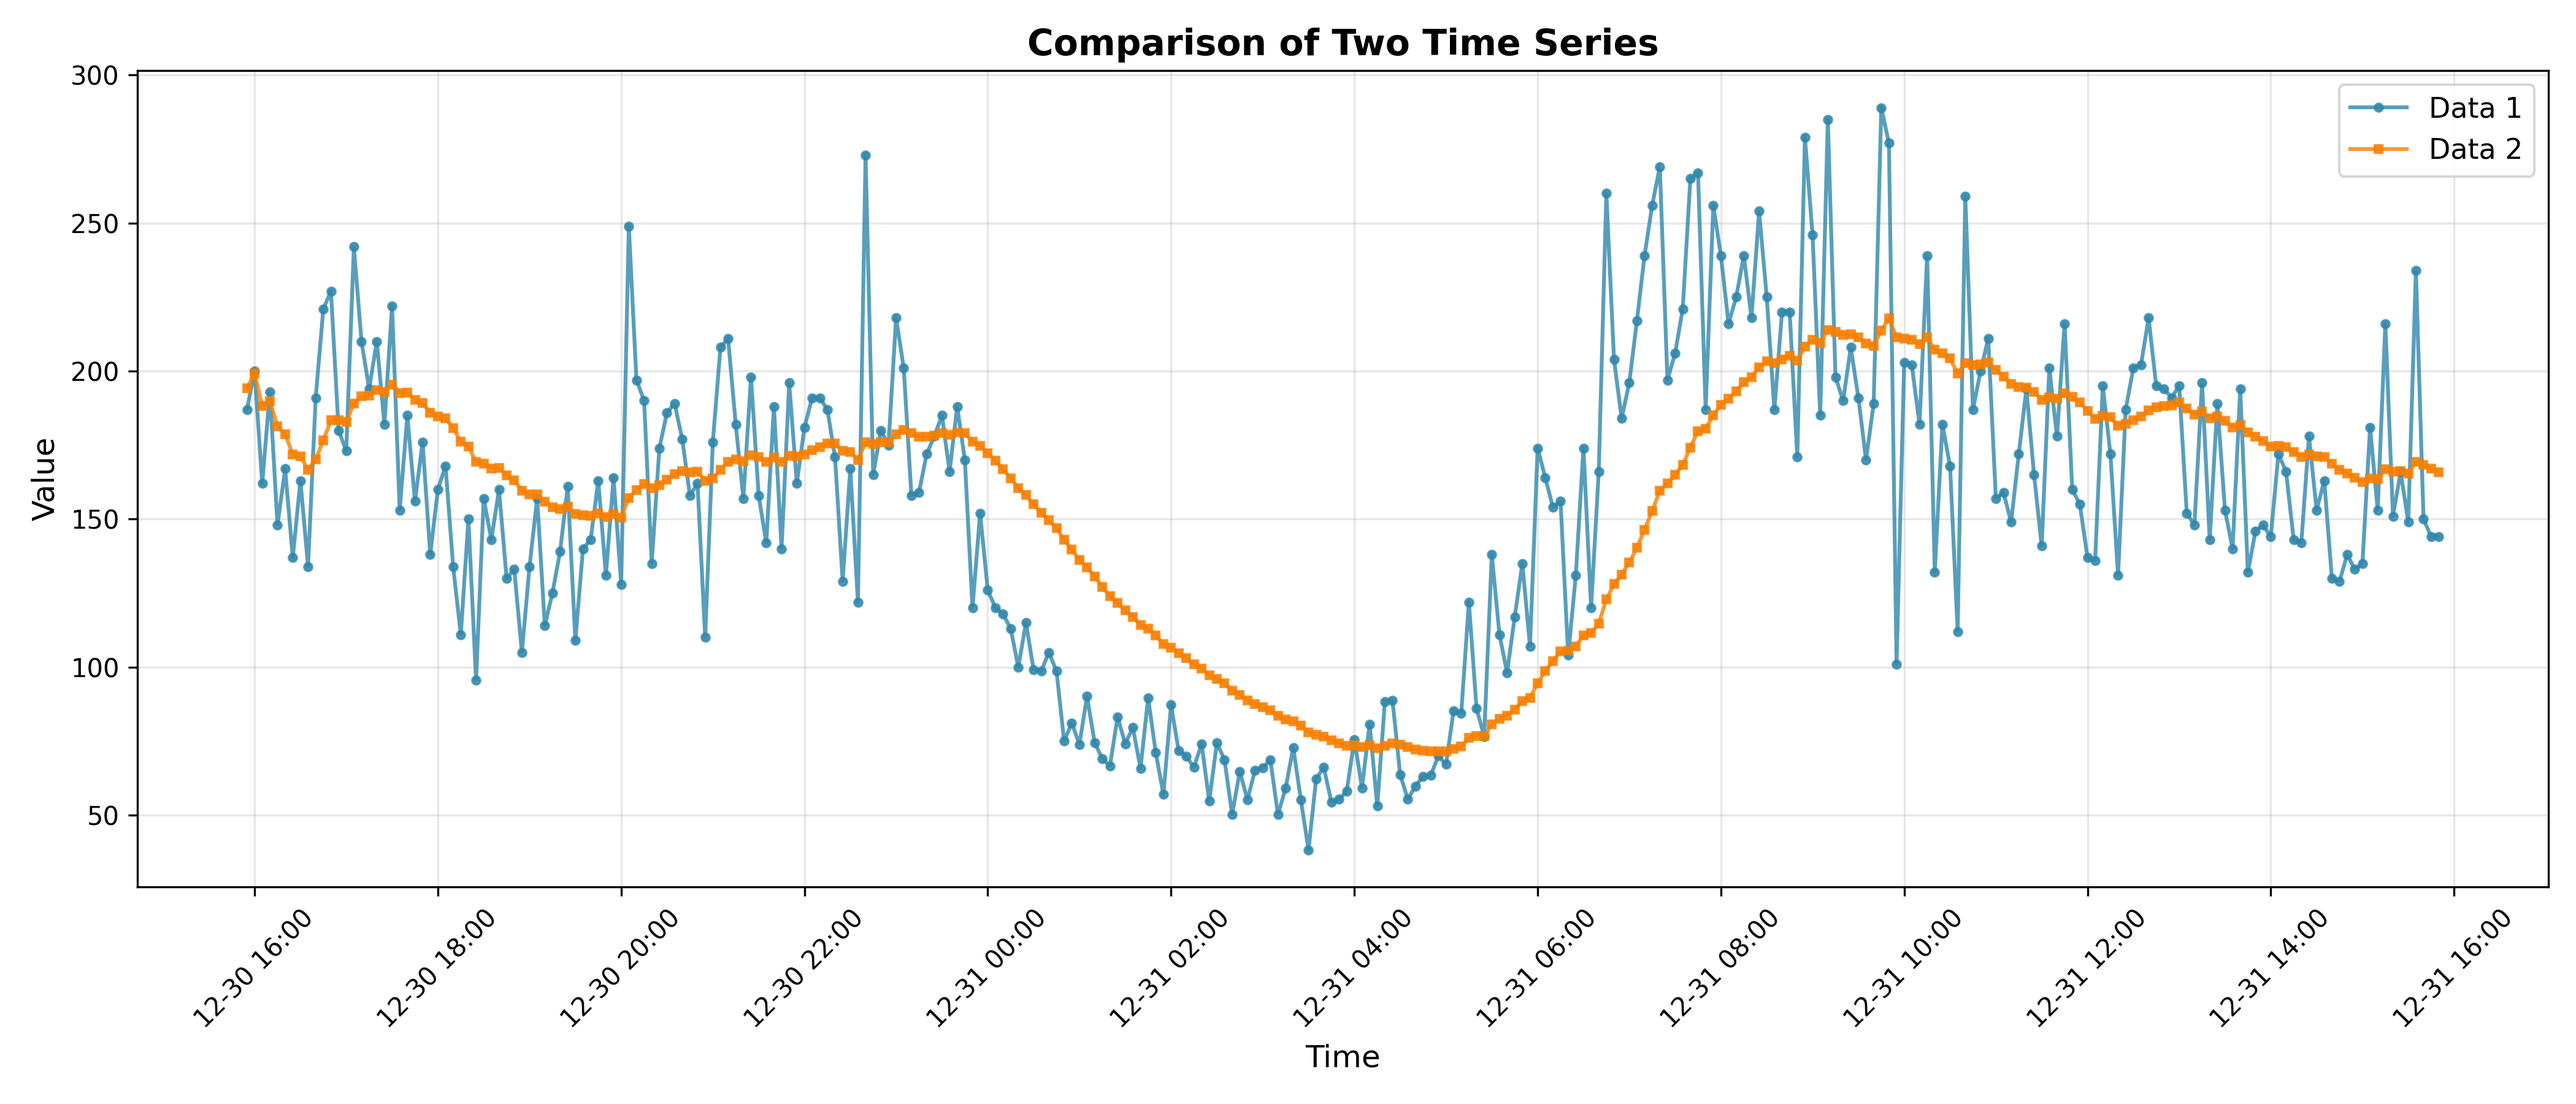
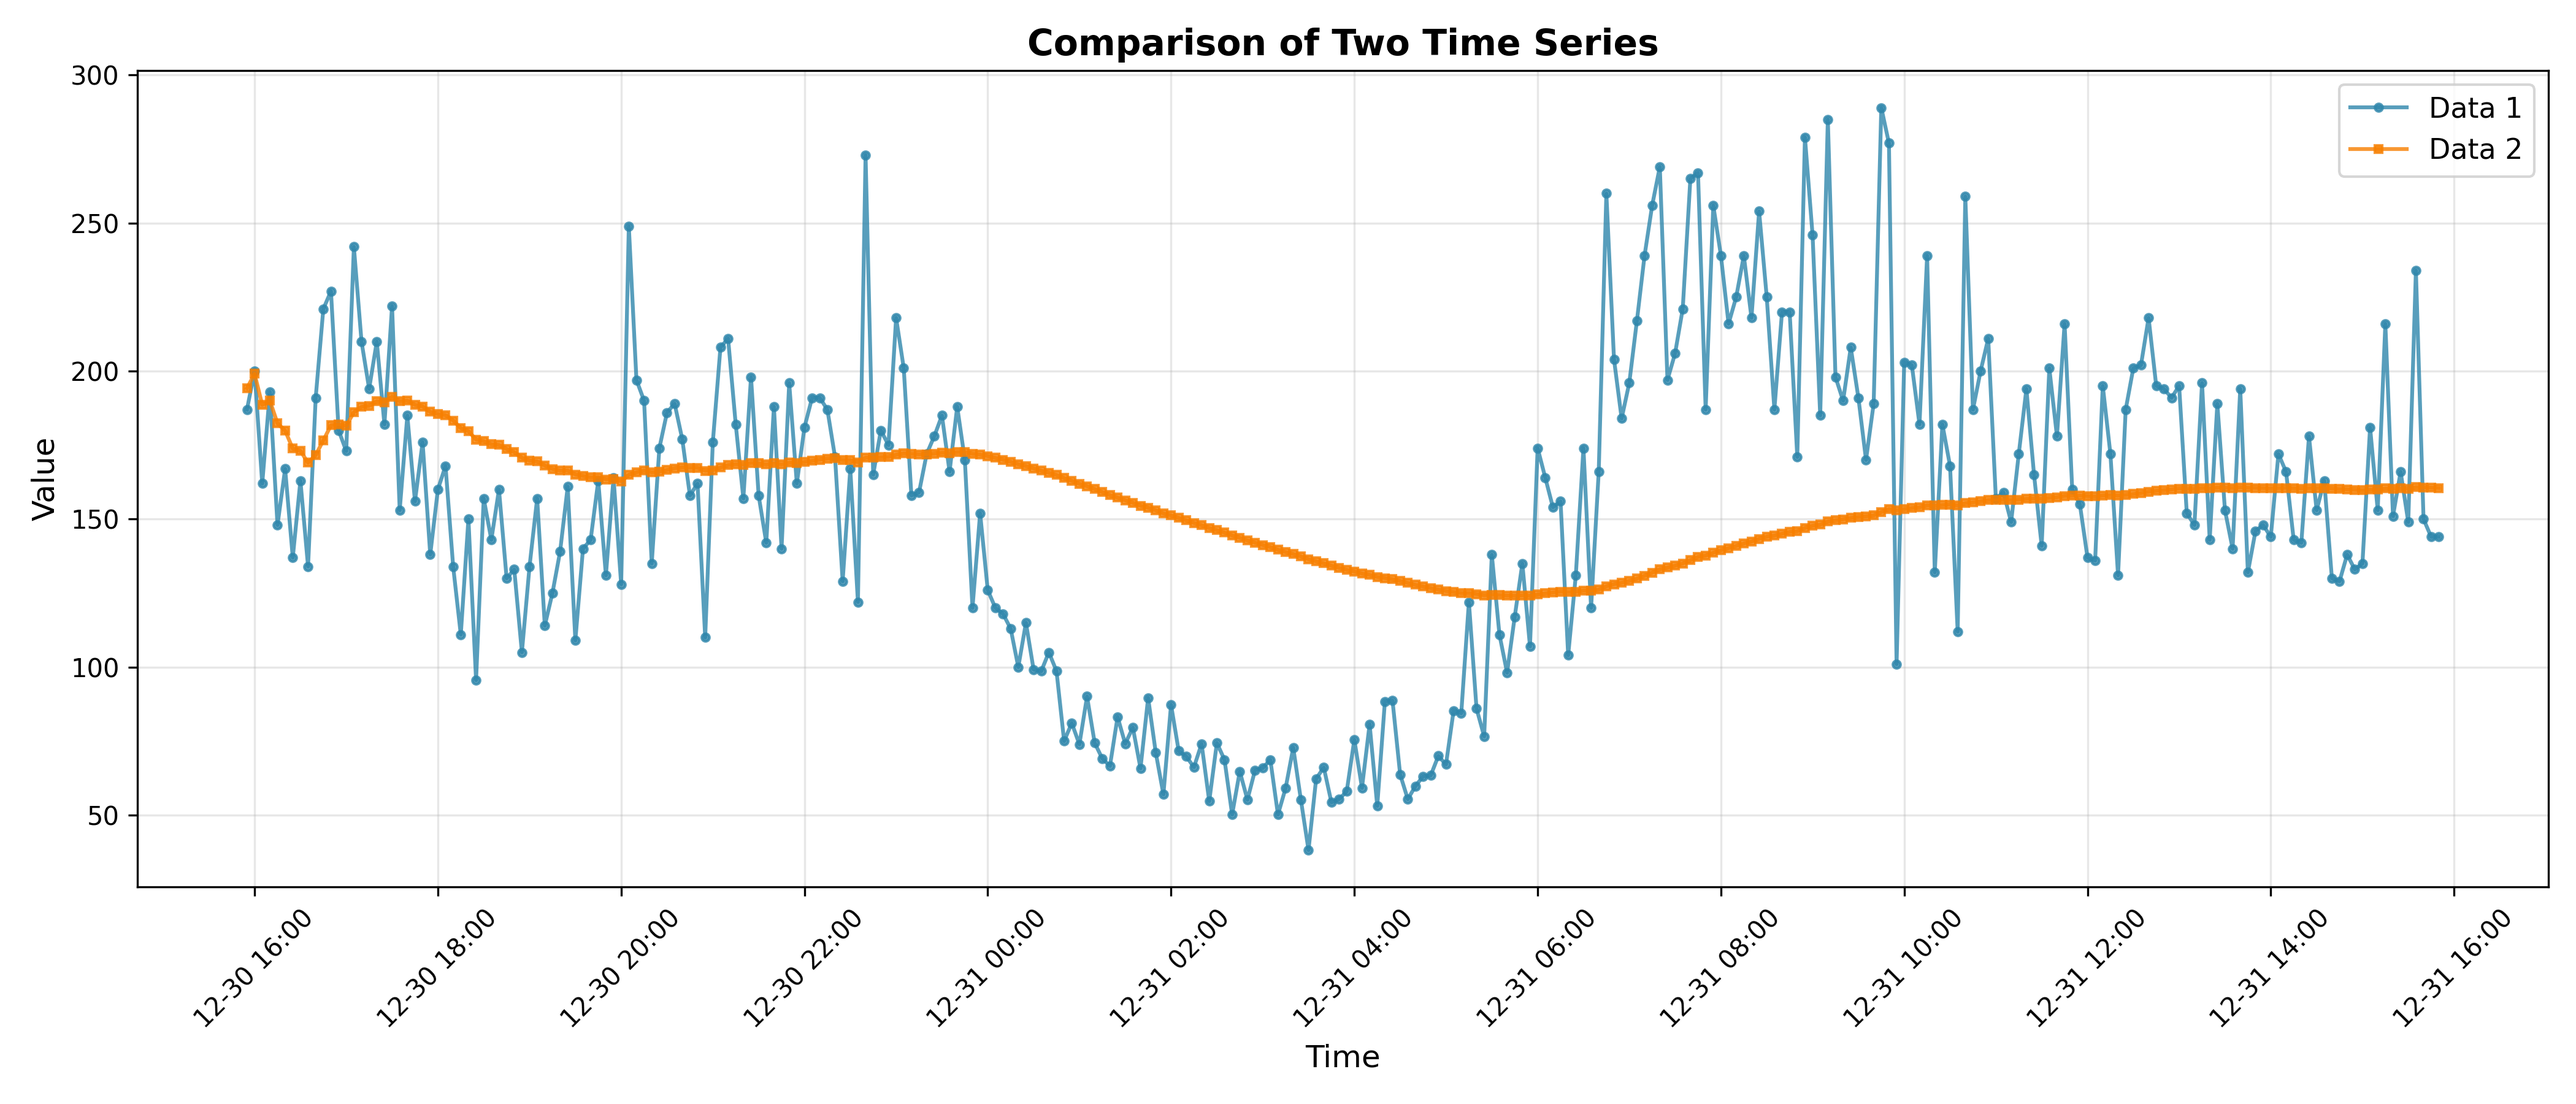
fix

diff --git a/chart.py b/chart.py
@@ -2,39 +2,44 @@ import pandas as pd
 import matplotlib.pyplot as plt
 import matplotlib.dates as mdates
 
-# 配置文件列表
-files = [
-    ('cpumock2.csv', 'Server A', '#2E86AB', 'o'),
-    ('cpumock2_mv.csv', 'Server B', '#F77F00', 's'),
-    # ('data3.csv', 'Server C', '#06A77D', '^'),  # 可选第三条
-]
+# 读取两个 CSV 文件
+df1 = pd.read_csv('cpumock2.csv', names=['timestamp', 'value'], parse_dates=['timestamp'])
+df2 = pd.read_csv('cpumock2_mw_2.csv', names=['timestamp', 'value'], parse_dates=['timestamp'])
 
-plt.figure(figsize=(16, 7))
+# 排序
+df1.sort_values('timestamp', inplace=True)
+df2.sort_values('timestamp', inplace=True)
 
-# 循环绘制
-for csv_file, label, color, marker in files:
-    df = pd.read_csv(csv_file, names=['timestamp', 'value'],
-                     parse_dates=['timestamp'])
-    df.sort_values('timestamp', inplace=True)
+# 绘图
+plt.figure(figsize=(14, 6))
 
-    plt.plot(df['timestamp'], df['value'],
-             linewidth=2, color=color, marker=marker,
-             markersize=3, label=label, alpha=0.8, markevery=10)
+# 第一条曲线 - 蓝色
+plt.plot(df1['timestamp'], df1['value'],
+         linewidth=1.5, color='#2E86AB',
+         marker='o', markersize=3, label='Data 1', alpha=0.8)
 
-    plt.fill_between(df['timestamp'], df['value'],
-                     alpha=0.15, color=color)
+# 第二条曲线 - 橙色
+plt.plot(df2['timestamp'], df2['value'],
+         linewidth=1.5, color='#F77F00',
+         marker='s', markersize=3, label='Data 2', alpha=0.8)
 
 # 格式化
 plt.gca().xaxis.set_major_formatter(mdates.DateFormatter('%m-%d %H:%M'))
 plt.gca().xaxis.set_major_locator(mdates.HourLocator(interval=2))
 
-plt.title('Multi-Server Comparison', fontsize=16, fontweight='bold')
+plt.title('Comparison of Two Time Series', fontsize=14, fontweight='bold')
 plt.xlabel('Time', fontsize=12)
-plt.ylabel('CPU %', fontsize=12)
+plt.ylabel('Value', fontsize=12)
 plt.legend(loc='best', fontsize=11)
 plt.grid(True, alpha=0.3)
 plt.xticks(rotation=45)
 plt.tight_layout()
 
-plt.savefig('multi_comparison.png', dpi=300)
+plt.savefig('comparison.png', dpi=300)
 plt.show()
+
+# 打印统计
+print("=== Data 1 ===")
+print(f"Max: {df1['value'].max():.2f}, Min: {df1['value'].min():.2f}, Avg: {df1['value'].mean():.2f}")
+print("\n=== Data 2 ===")
+print(f"Max: {df2['value'].max():.2f}, Min: {df2['value'].min():.2f}, Avg: {df2['value'].mean():.2f}")
